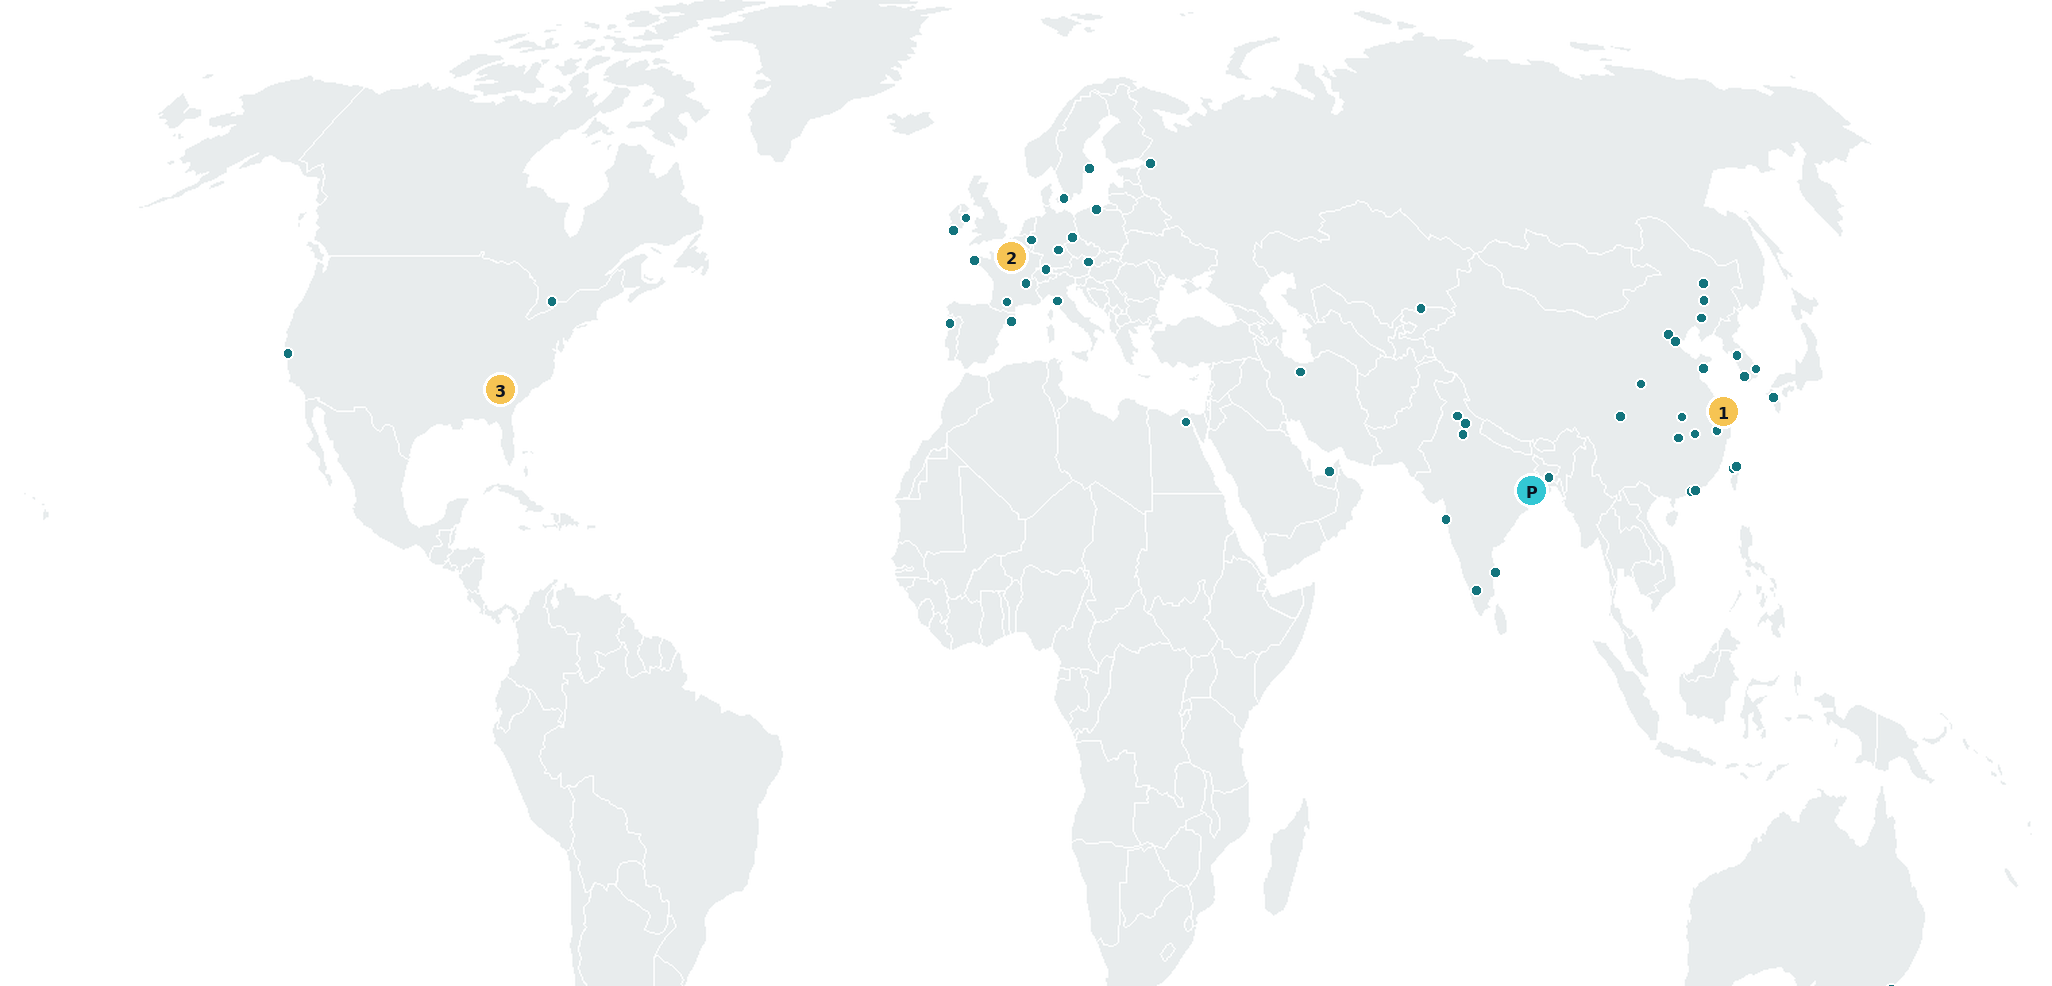
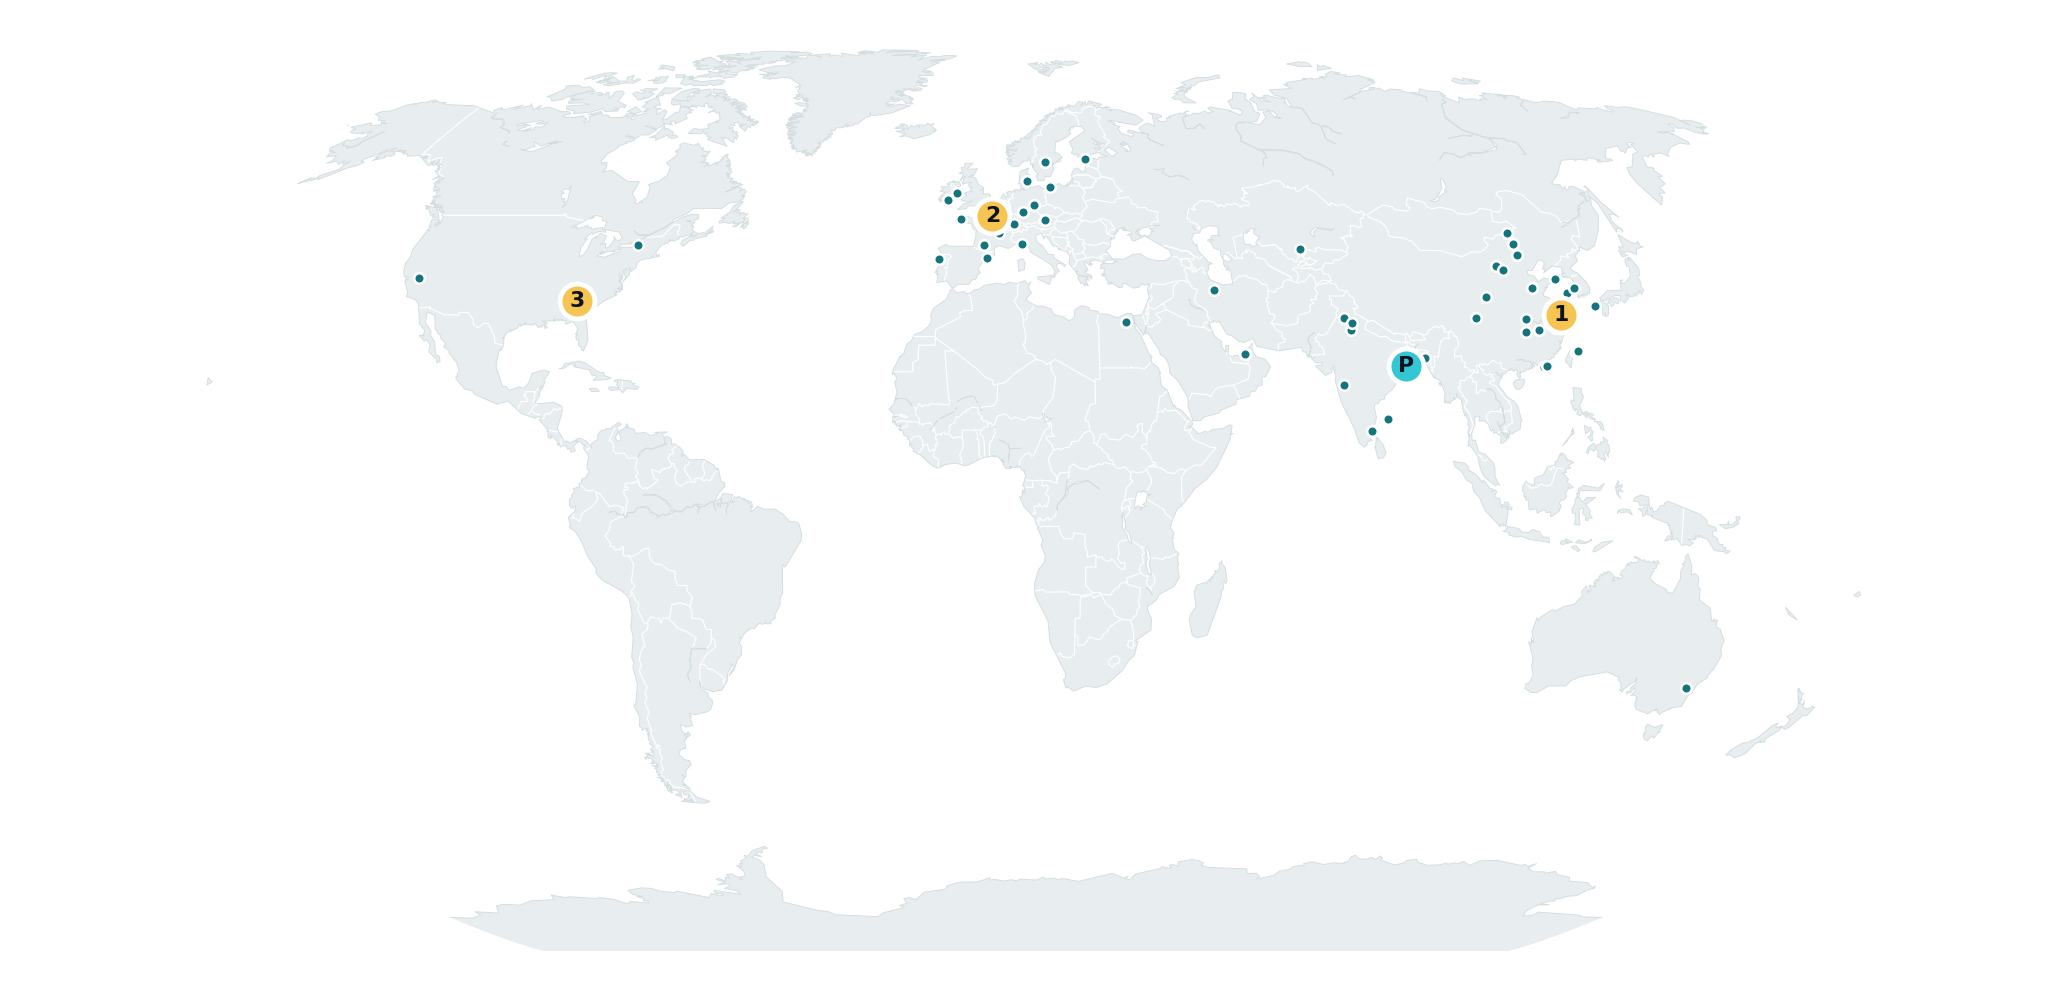
Improve AMPLIFAI participation map projection

diff --git a/index.html b/index.html
@@ -264,7 +264,8 @@
           </div>
           <p class="text-muted-amplifai participation-copy mb-0">
             Approved registrations reflected a geographically broad medical-imaging AI community. Participant-city
-            markers below use the approximate locations mapped for the AMPLIFAI summary presentation.
+            markers preserve the approximate locations mapped for the AMPLIFAI summary presentation and are shown here
+            in a Robinson projection.
           </p>
         </div>
 
@@ -289,7 +290,7 @@
             </p>
             <p class="text-muted-amplifai small mb-0">
               Approximate city-level locations cover 63 matched approved accounts across 56 cities; 17 accounts could
-              not be mapped confidently and are not shown. Multiple institutions in one city share a marker. Map: Natural Earth.
+              not be mapped confidently and are not shown. Multiple institutions in one city share a marker. Projection: Robinson.
             </p>
           </figcaption>
         </figure>

diff --git a/assets/css/style.css b/assets/css/style.css
@@ -606,7 +606,8 @@ footer.site-footer a:hover {
   display: grid;
   gap: 0.75rem 2rem;
   align-items: end;
-  margin-bottom: 1.5rem;
+  max-width: 68rem;
+  margin: 0 auto 1.35rem;
 }
 
 .participation-copy {
@@ -615,6 +616,9 @@ footer.site-footer a:hover {
 }
 
 .participation-figure {
+  max-width: 68rem;
+  margin-left: auto;
+  margin-right: auto;
   overflow: hidden;
   border: 1px solid var(--amplifai-border);
   border-radius: 0.7rem;
@@ -625,6 +629,7 @@ footer.site-footer a:hover {
   display: block;
   width: 100%;
   height: auto;
+  background: #fff;
 }
 
 .participation-caption {
